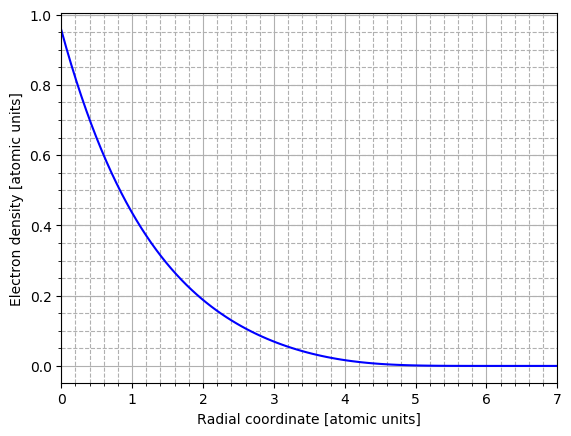
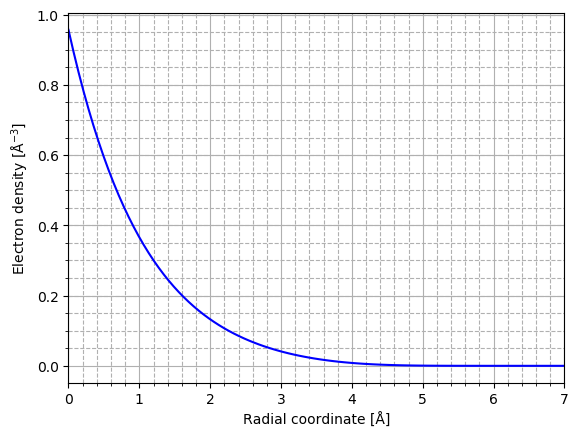
asdasd

Changed region(s): [[0.0, 0.0, 0.9825, 0.9839]]

diff --git a/HA4/code/EV_curve_comparison.py b/HA4/code/EV_curve_comparison.py
@@ -1,0 +1,150 @@
+import matplotlib.pyplot as plt
+from ase.build import bulk
+from eam_calculator import get_calc
+
+
+def main():
+    ''' Read in parameters for EAM calc '''
+    with open('HA4/results/fit_potential_output_full.txt', 'r') as textfile:
+        line = next(textfile)
+        line = line.split(',')
+
+        A = float(line[0])
+        lmbd = float(line[1])
+        D = float(line[2])
+        mu2 = float(line[3])
+
+    path_BCC = 'HA4/downloads/Al-EV-curves/BCC.dat'
+    a0_BCC, V_BCC, E_BCC, scale_factors = read_data(path_BCC)
+
+    path_DI = 'HA4/downloads/Al-EV-curves/DIAMOND.dat'
+    a0_DI, V_DI, E_DI, scale_factors = read_data(path_DI)
+
+    path_FCC = 'HA4/downloads/Al-EV-curves/FCC.dat'
+    a0_FCC, V_FCC, E_FCC, scale_factors = read_data(path_FCC)
+    a0_FCC_experimental = 4.032
+    E0_FCC_experimental = -3.36
+    path_SC = 'HA4/downloads/Al-EV-curves/SC.dat'
+    a0_SC, V_SC, E_SC, scale_factors = read_data(path_SC)
+
+    al_bulk_BCC = bulk('Al', 'bcc', a=a0_BCC)
+    al_bulk_DI = bulk('Al', 'diamond', a=a0_DI)
+    al_bulk_FCC = bulk('Al', 'fcc', a=a0_FCC)
+    al_bulk_SC = bulk('Al', 'sc', a=a0_SC)
+
+    calc = get_calc((A, lmbd, D, mu2))
+
+    al_bulk_BCC.set_calculator(calc)
+    al_bulk_DI.set_calculator(calc)
+    al_bulk_FCC.set_calculator(calc)
+    al_bulk_SC.set_calculator(calc)
+
+    V_BCC_sim, V_DI_sim, V_FCC_sim, V_SC_sim = [], [], [], []
+    E_BCC_sim, E_DI_sim, E_FCC_sim, E_SC_sim = [], [], [], []
+
+    for scale_factor in scale_factors:
+        cell_0 = al_bulk_BCC.get_cell()
+        al_bulk_BCC.set_cell(cell_0 * scale_factor)
+        E_BCC_sim.append(al_bulk_BCC.get_potential_energy())
+        V_BCC_sim.append(2 * al_bulk_BCC.get_volume())
+        al_bulk_BCC.set_cell(cell_0)
+
+        cell_0 = al_bulk_DI.get_cell()
+        al_bulk_DI.set_cell(cell_0 * scale_factor)
+        E_DI_sim.append(al_bulk_DI.get_potential_energy())
+        V_DI_sim.append(4 * al_bulk_DI.get_volume())
+        al_bulk_DI.set_cell(cell_0)
+
+        cell_0 = al_bulk_FCC.get_cell()
+        al_bulk_FCC.set_cell(cell_0 * scale_factor)
+        E_FCC_sim.append(al_bulk_FCC.get_potential_energy())
+        V_FCC_sim.append(4 * al_bulk_FCC.get_volume())
+        al_bulk_FCC.set_cell(cell_0)
+
+        cell_0 = al_bulk_SC.get_cell()
+        al_bulk_SC.set_cell(cell_0 * scale_factor)
+        E_SC_sim.append(al_bulk_SC.get_potential_energy())
+        V_SC_sim.append(1 * al_bulk_SC.get_volume())
+        al_bulk_SC.set_cell(cell_0)
+
+    fig = plt.figure(1, figsize=(7.1, 7.1))
+    ax_BCC = fig.add_subplot(221)
+    ax_BCC.plot(V_BCC, E_BCC, label='DFT', color='blue')
+    ax_BCC.plot(V_BCC_sim, E_BCC_sim, label='EAM', color='red')
+    ax_BCC.set_title('BCC unit cell')
+    ax_BCC.minorticks_on()
+    ax_BCC.grid(True, which='minor', linestyle='--')
+    ax_BCC.grid(True, which='major', linestyle='-')
+    ax_BCC.set_xlim(V_BCC[0], V_BCC[-1])
+    ax_BCC.legend()
+
+    ax_DI = fig.add_subplot(222)
+    ax_DI.plot(V_DI, E_DI, label='DFT', color='blue')
+    ax_DI.plot(V_DI_sim, E_DI_sim, label='EAM', color='red')
+    ax_DI.set_title('Diamond unit cell')
+    ax_DI.minorticks_on()
+    ax_DI.grid(True, which='minor', linestyle='--')
+    ax_DI.grid(True, which='major', linestyle='-')
+    ax_DI.set_xlim(V_DI[0], V_DI[-1])
+    ax_DI.legend()
+
+    ax_FCC = fig.add_subplot(223)
+    ax_FCC.plot(V_FCC, E_FCC, label='DFT', color='blue')
+    ax_FCC.plot(V_FCC_sim, E_FCC_sim, label='EAM', color='red')
+    ax_FCC.plot(a0_FCC_experimental**3, E0_FCC_experimental, marker='*', color='black')
+    ax_FCC.set_title('FCC unit cell')
+    ax_FCC.minorticks_on()
+    ax_FCC.grid(True, which='minor', linestyle='--')
+    ax_FCC.grid(True, which='major', linestyle='-')
+    ax_FCC.set_xlim(V_FCC[0], V_FCC[-1])
+    ax_FCC.legend()
+
+    ax_SC = fig.add_subplot(224)
+    ax_SC.plot(V_SC, E_SC, label='DFT', color='blue')
+    ax_SC.plot(V_SC_sim, E_SC_sim, label='EAM', color='red')
+    ax_SC.set_title('SC unit cell')
+    ax_SC.minorticks_on()
+    ax_SC.grid(True, which='minor', linestyle='--')
+    ax_SC.grid(True, which='major', linestyle='-')
+    ax_SC.set_xlim(V_SC[0], V_SC[-1])
+    ax_SC.legend()
+
+    fig.subplots_adjust(left=None, bottom=None, right=None, top=None,
+                        wspace=None, hspace=0.25)
+    fig.text(0.5, 0.03, 'Volume [Å^3]', ha='center', fontsize=16)
+    fig.text(0.03, 0.5, 'Energy [eV]', va='center', rotation='vertical', fontsize=16)
+
+    fig.savefig("HA4/results/EV_curves.png", bbox_inches='tight')
+
+    with open('HA4/results/EV_FCC.txt', 'w') as textfile:
+        text = 'Volume, Enegy DFT, Energy EAM ' + '\n'
+        for i in range(len(V_FCC)):
+            text = text + str(V_FCC[i]) + ',' + str(E_FCC[i]) + ',' + str(E_FCC_sim[i]) + '\n'
+        text = text[:-1]
+        textfile.write(text)
+
+    plt.show()
+
+
+def read_data(path):
+    E = []
+    V = []
+    scale_factor = []
+    with open(path, 'r') as textfile:
+        line = next(textfile)
+        a0 = float(line.split(':')[1])
+        next(textfile)
+        next(textfile)
+        next(textfile)
+        next(textfile)
+        for line in textfile:
+            line = line.split()
+            V.append(float(line[0]))
+            E.append(float(line[1]))
+            scale_factor.append(float(line[2]))
+
+    return a0, V, E, scale_factor
+
+
+if __name__ == '__main__':
+    main()

diff --git a/HA4/code/fit_birch.py b/HA4/code/fit_birch.py
@@ -1,0 +1,94 @@
+import numpy as np
+from scipy.optimize import least_squares
+import matplotlib.pyplot as plt
+
+
+def main():
+    V = []
+    E_EAM = []
+
+    with open('HA4/results/EV_FCC.txt', 'r') as textfile:
+        next(textfile)
+        for line in textfile:
+            line = line.split(',')
+            V.append(float(line[0]))
+            E_EAM.append(float(line[2]))
+
+    V = np.asarray(V)
+    E_EAM = np.asarray(E_EAM)
+    RMS_res = []
+
+    n_vec = range(1, 10)
+
+    ftol = 1e-5
+    xtol = 1e-5
+    gtol = 1e-5
+    loss = 'linear'
+
+    ''' Converge number of basis functions '''
+    for n in n_vec:
+        x_0 = np.ones(n)
+        res = least_squares(residual, x_0, args=(V, E_EAM), verbose=0)
+        RMS_res.append(np.sqrt(2 * res.cost / len(E_EAM)))
+
+    fig_converge = plt.figure()
+    ax_converge = fig_converge.add_subplot(111)
+    ax_converge.plot(n_vec, RMS_res, color='blue')
+    ax_converge.minorticks_on()
+    ax_converge.grid(True, which='minor', linestyle='--')
+    ax_converge.grid(True, which='major', linestyle='-')
+    ax_converge.set_xlim(n_vec[0], n_vec[-1])
+    ax_converge.set_xlabel('Number of basis functions [-]')
+    ax_converge.set_ylabel('Root mean square of cost function [-]')
+
+    ''' Using nominal number of basis functions '''
+    n = 4
+    x_0 = np.ones(n)
+    res = least_squares(residual, x_0, args=(V, E_EAM), verbose=0)
+    RMS_res.append(np.sqrt(2 * res.cost / len(E_EAM)))
+
+    fig_compare = plt.figure()
+    ax_compare = fig_compare.add_subplot(111)
+    ax_compare.plot(V, E_EAM, '.', color='black')
+    V = np.linspace(V[0], V[-1], 100)  # Adding more points for smoother plot
+    ax_compare.plot(V, birch_energy(res.x, V), color='blue')
+    ax_compare.set_xlim(V[0], V[-1])
+    ax_compare.minorticks_on()
+    ax_compare.grid(True, which='minor', linestyle='--')
+    ax_compare.grid(True, which='major', linestyle='-')
+    ax_compare.set_xlabel('Volume [Å$^{3}$]')
+    ax_compare.set_ylabel('Cohesive energy [eV]')
+
+    ''' Calculating bulk modulus using proposed equation '''
+    B = min(V) * birch_bulk(res.x, min(V))
+
+    with open('HA4/results/Bulk_modulus_birch.txt', 'w') as textfile:
+        textfile.write('Volume: ' + str(min(V)) + '\n')
+        textfile.write('Bulk modulus: ' + str(B))
+
+    fig_converge.savefig("HA4/results/Converge_n_birch.png", bbox_inches='tight')
+    fig_compare.savefig("HA4/results/Compare_data_birch.png", bbox_inches='tight')
+    plt.show()
+
+
+def residual(x, V, E_EAM):
+    return birch_energy(x, V) - E_EAM
+
+
+def birch_energy(x, V):
+    E = 0
+    for n in range(len(x)):
+        E = E + x[n] * V**(-2 * n / 3)
+    return E
+
+
+def birch_bulk(x, V):
+    B = 0
+    for n in range(len(x)):
+        ddE_ddV = ((4 * n**2 + 6 * n) / 9 * V**((-2 * n - 6) / 3)) * x[n]
+        B = B + V * ddE_ddV
+    return B
+
+
+if __name__ == '__main__':
+    main()

diff --git a/HA4/code/plot_potential.py b/HA4/code/plot_potential.py
@@ -56,38 +56,38 @@ rho = electron_density(r, mu2) * cutoff_function((r - r_c) / 3)
 F = embedding_function(rho, D)
 V = pair_potential(r, A, lmbd)
 
-fig_density = plt.figure()
-ax_density = fig_density.add_subplot(111)
 
-fig_embedding = plt.figure()
-ax_embedding = fig_embedding.add_subplot(111)
-
-fig_pair_potential = plt.figure()
-ax_pair_potential = fig_pair_potential.add_subplot(111)
+''' Plotting '''
+y_axis_coords = (-0.1, 0.5)
+fig_EAM_potential = plt.figure(figsize=(6, 8))
+ax_density = fig_EAM_potential.add_subplot(311)
+ax_embedding = fig_EAM_potential.add_subplot(312)
+ax_pair_potential = fig_EAM_potential.add_subplot(313)
 
 ax_density.plot(r, rho, color='blue')
 ax_density.set_xlim(0, r[-1])
 ax_density.minorticks_on()
 ax_density.grid(True, which='minor', linestyle='--')
 ax_density.grid(True, which='major', linestyle='-')
-ax_density.set_ylabel('Electron density [atomic units]')
-ax_density.set_xlabel('Radial coordinate [atomic units]')
+ax_density.set_ylabel('Electron density [Å$^{-3}$]')
+ax_density.yaxis.set_label_coords(y_axis_coords[0], y_axis_coords[1])
 
 ax_embedding.plot(r, F, color='blue')
 ax_embedding.set_xlim(0, r[-1])
 ax_embedding.minorticks_on()
 ax_embedding.grid(True, which='minor', linestyle='--')
 ax_embedding.grid(True, which='major', linestyle='-')
-ax_embedding.set_ylabel('Embedding function [atomic units]')
-ax_embedding.set_xlabel('Radial coordinate [atomic units]')
+ax_embedding.set_ylabel('Embedding function [eV]')
+ax_embedding.yaxis.set_label_coords(y_axis_coords[0], y_axis_coords[1])
 
 ax_pair_potential.plot(r, V, color='blue')
 ax_pair_potential.set_xlim(0, r[-1])
 ax_pair_potential.minorticks_on()
 ax_pair_potential.grid(True, which='minor', linestyle='--')
 ax_pair_potential.grid(True, which='major', linestyle='-')
-ax_pair_potential.set_ylabel('Pair potential [atomic units]')
-ax_pair_potential.set_xlabel('Radial coordinate [atomic units]')
+ax_pair_potential.set_ylabel('Pair potential [eV]')
+ax_pair_potential.set_xlabel('Radial coordinate [Å]')
+ax_pair_potential.yaxis.set_label_coords(y_axis_coords[0], y_axis_coords[1])
 
 fig_compare_forces = plt.figure()
 ax_compare_forces = fig_compare_forces.add_subplot(111)
@@ -100,9 +100,7 @@ ax_compare_forces.set_ylabel('Forces EAM [atomic units]')
 ax_compare_forces.set_xlabel('Forces DFT [atomic units]')
 ax_compare_forces.legend()
 
-fig_density.savefig("HA4/results/Density.png", bbox_inches='tight')
-fig_embedding.savefig("HA4/results/Embedding_function.png", bbox_inches='tight')
-fig_pair_potential.savefig("HA4/results/Pair_potential.png", bbox_inches='tight')
+fig_EAM_potential.savefig("HA4/results/EAM_potential.png", bbox_inches='tight')
 fig_compare_forces.savefig("HA4/results/Compare_forces.png", bbox_inches='tight')
 
 
